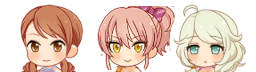
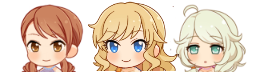
Update EP124

Changed region(s): [[0.3438, 0.0, 0.7188, 1.0]]

diff --git a/detail/124/index.html b/detail/124/index.html
@@ -47,7 +47,7 @@
 					<img class="plate" src='../../12008305/image_sp/ui/refresh_room/name_plate/101.png'>
 				</div>
 				<div class="plate-area" rel="2">
-					<img class="plate" src='../../12008305/image_sp/ui/refresh_room/name_plate/167.png'>
+					<img class="plate" src='../../12008305/image_sp/ui/refresh_room/name_plate/146.png'>
 				</div>
 				<div class="plate-area" rel="3">
 					<img class="plate" src='../../12008305/image_sp/ui/refresh_room/name_plate/24.png'>
@@ -89,9 +89,9 @@
 				"idol_name_1": "北条加蓮",
 				"idol_kana_1": "ほうじょうかれん",
 				"name_plate_id_1": "101",
-				"idol_name_2": "城ケ崎美嘉",
-				"idol_kana_2": "じょうがさきみか",
-				"name_plate_id_2": "167",
+				"idol_name_2": "大槻唯",
+				"idol_kana_2": "おおつきゆい",
+				"name_plate_id_2": "146",
 				"idol_name_3": "遊佐こずえ",
 				"idol_kana_3": "ゆさこずえ",
 				"name_plate_id_3": "24",
@@ -134,10 +134,10 @@
 						"attribute": "3",
 						"body_type": "1",
 						"breast_size": "1",
-						"short_name": "미카",
+						"short_name": "유이",
 						"image_url_list": {
-							"expression_1058": "../../12008305/js/petit_cg/expression/1058.js",
-							"hair_10058": "../../12008305/js/petit_cg/hair/10058.js",
+							"expression_1009": "../../12008305/js/petit_cg/expression/1009.js",
+							"hair_10009": "../../12008305/js/petit_cg/hair/10009.js",
 							"costume_1_23424": "../../12008305/js/petit_cg/costume/1/23424.js"
 						},
 						"sub_type_list": {
@@ -567,7 +567,7 @@
 				"motion4": "",
 				"motion5": "",
 				"bg_image": "",
-				"message": "じゃあ, 候補その２だね♪\n他にもできるやつあるかなっ?",
+				"message": "그럼, 후보 제2번이네♪\n그 외에도 할 수 있는 거 있을까?",
 				"message_window_type": "",
 				"message_arrow_1": "",
 				"message_arrow_2": "1",
@@ -588,7 +588,7 @@
 				"motion4": "",
 				"motion5": "",
 				"bg_image": "",
-				"message": "そうだなぁ……\nちょっと宴会芸から離れて, \nスタイリング対決とかどう?",
+				"message": "글쎄……\n잠깐 예능대회에서 벗어나서, \n스타일링 대결 같은 건 어때?",
 				"message_window_type": "",
 				"message_arrow_1": "1",
 				"message_arrow_2": "",
@@ -609,7 +609,7 @@
 				"motion4": "",
 				"motion5": "",
 				"bg_image": "",
-				"message": "すたいりんぐ……?\nおきがえで……きょうそうー?",
+				"message": "스타일링……?\n옷 갈아입는 걸로……경쟁ー?",
 				"message_window_type": "",
 				"message_arrow_1": "",
 				"message_arrow_2": "",
@@ -630,7 +630,7 @@
 				"motion4": "",
 				"motion5": "",
 				"bg_image": "",
-				"message": "ええっとね.制限時間内にそれぞれ\n誰かにメイクとかヘアアレンジとか\nしてもらって, その出来を競うの!",
+				"message": "그러니까 말야. 제한시간 내에 각자\n누군가를 메이크업하거나 \n헤어 어레인지를 하거나 해서, 그 결과를 겨루는 거야!",
 				"message_window_type": "",
 				"message_arrow_1": "1",
 				"message_arrow_2": "",
@@ -651,7 +651,7 @@
 				"motion4": "",
 				"motion5": "",
 				"bg_image": "",
-				"message": "久美子さん, 彩華さん, 美紗希さん\nあたりにお願いしたら, \n盛り上がるんじゃないかな♪",
+				"message": "쿠미코 씨, 아야카 씨, 미사키 씨\n정도한테 부탁하면, \n꽤 재미있지 않을까♪",
 				"message_window_type": "",
 				"message_arrow_1": "1",
 				"message_arrow_2": "",
@@ -672,7 +672,7 @@
 				"motion4": "",
 				"motion5": "",
 				"bg_image": "",
-				"message": "おお, アイドルっぽい♪\nかれん, くみちーたちと\nよくネイルの話とかしてるもんね!",
+				"message": "오오, 아이돌다운데♪\n카렌, 쿠미코 일행이랑\n네일 얘기 같은 거 자주 하니까 말야!",
 				"message_window_type": "",
 				"message_arrow_1": "",
 				"message_arrow_2": "1",
@@ -693,7 +693,7 @@
 				"motion4": "",
 				"motion5": "",
 				"bg_image": "",
-				"message": "うん, よくショッピングも行くよ♪\nでも, この案だと私たちが何かする\nワケじゃないし, やっぱダメかな~.",
+				"message": "응, 쇼핑도 자주 가♪\n그래도, 이건 우리가 뭔가를\n하는 게 아니니까, 역시 안 되려나~.",
 				"message_window_type": "",
 				"message_arrow_1": "1",
 				"message_arrow_2": "",
@@ -714,7 +714,7 @@
 				"motion4": "",
 				"motion5": "",
 				"bg_image": "",
-				"message": "こずえたち……いがい……\nほかの……みんなも……\nだしもの……するー……?",
+				"message": "우리……말고……\n다른……사람도……\n뭔가……해ー……?",
 				"message_window_type": "",
 				"message_arrow_1": "",
 				"message_arrow_2": "",
@@ -735,7 +735,7 @@
 				"motion4": "",
 				"motion5": "",
 				"bg_image": "",
-				"message": "うん, やる子もいるみたい!\n何人からか話を聞いてるよ~♪",
+				"message": "응, 하는 애들도 있다나봐!\n몇 명이서 얘기하는 걸 들었었어~♪",
 				"message_window_type": "",
 				"message_arrow_1": "",
 				"message_arrow_2": "1",
@@ -756,7 +756,7 @@
 				"motion4": "",
 				"motion5": "",
 				"bg_image": "",
-				"message": "美嘉ねえと莉嘉ちー, \n颯っちとなぎなぎで\n姉妹対決ダンスバトルとか☆",
+				"message": "미카랑 리카, \n하야테랑 나기로\n자매대결 댄스배틀이라든가☆",
 				"message_window_type": "",
 				"message_arrow_1": "",
 				"message_arrow_2": "1",
@@ -777,7 +777,7 @@
 				"motion4": "",
 				"motion5": "",
 				"bg_image": "",
-				"message": "うわ, 楽しそう!　私が聞いたのは\n朋さんと茄子さんの『占い館』かな.\nどんな相談でも受け付けるって♪",
+				"message": "우와, 재밌겠다!　내가 들으 건\n토모 씨랑 카코 씨의『점집』이었어.\n어떤 상담이라도 들어준다나♪",
 				"message_window_type": "",
 				"message_arrow_1": "1",
 				"message_arrow_2": "",
@@ -798,7 +798,7 @@
 				"motion4": "",
 				"motion5": "",
 				"bg_image": "",
-				"message": "すごいっ, 本格的だね!\n私もなにか占ってもらおうかな~.\n次の抜き打ちテストはいつ?　とか♪",
+				"message": "멋지다, 본격적이네!\n나도 점이나 한 번 볼까~.\n다음 깜짝시험은 언제?　같은 거♪",
 				"message_window_type": "",
 				"message_arrow_1": "",
 				"message_arrow_2": "1",
@@ -819,7 +819,7 @@
 				"motion4": "",
 				"motion5": "",
 				"bg_image": "",
-				"message": "てすと……そういえば……\nやすはとようこ……てすと……\nしてみようって……ひそひそー.",
+				"message": "시험……그러고보니……\n야스하랑 요코……시험……\n보겠다며……소곤소곤ー.",
 				"message_window_type": "",
 				"message_arrow_1": "",
 				"message_arrow_2": "",
@@ -840,7 +840,7 @@
 				"motion4": "",
 				"motion5": "",
 				"bg_image": "",
-				"message": "ほうほう, それは匂いますな~.\n未央ちゃんの勘が, ふたりも\n何か企んでると言ってるぞ♪",
+				"message": "음~, 수상한걸~.\n유이의 감이, 그 둘도\n뭔가 꾸미고 있다고 말하고 있다구♪",
 				"message_window_type": "",
 				"message_arrow_1": "",
 				"message_arrow_2": "1",
@@ -861,7 +861,7 @@
 				"motion4": "",
 				"motion5": "",
 				"bg_image": "",
-				"message": "あと, 出し物じゃないけど……\n忍とあかりは一緒にアップルケーキを\n作って, 持って行くって.",
+				"message": "그리고, 공연은 아니지만……\n시노부랑 아카리는 같이 사과케이크를\n만들어서, 갖고온대.",
 				"message_window_type": "",
 				"message_arrow_1": "1",
 				"message_arrow_2": "",
@@ -882,7 +882,7 @@
 				"motion4": "",
 				"motion5": "",
 				"bg_image": "",
-				"message": "ふわぁ……けーきたのしみー…….\nでも……りんごはどっちのー……?",
+				"message": "후와아……케이크기대돼ー…….\n그런데……사과는 어디 걸로ー……?",
 				"message_window_type": "",
 				"message_arrow_1": "",
 				"message_arrow_2": "",
@@ -903,7 +903,7 @@
 				"motion4": "",
 				"motion5": "",
 				"bg_image": "",
-				"message": "その答えは見逃せないね!\n楽しみですなぁ~♪",
+				"message": "그 답은 놓칠 수 없겠는걸!\n기대된다~♪",
 				"message_window_type": "",
 				"message_arrow_1": "",
 				"message_arrow_2": "1",
@@ -924,7 +924,7 @@
 				"motion4": "",
 				"motion5": "",
 				"bg_image": "",
-				"message": "そういえばヘレンさんも, \n『世界レベルでエンターテインして\nあげる』って言ってたっけ.",
+				"message": "그러고보니 헬렌 씨도, \n『세계 레벨의 엔터테인먼트를\n보여주겠어』라고 했었지.",
 				"message_window_type": "",
 				"message_arrow_1": "",
 				"message_arrow_2": "1",
@@ -945,7 +945,7 @@
 				"motion4": "",
 				"motion5": "",
 				"bg_image": "",
-				"message": "それから, かんかんとうめきゃんは\n自作の歌を歌ってくれるって!",
+				"message": "그리고, 칸나랑 오토하는\n자작곡으로 노래한대!",
 				"message_window_type": "",
 				"message_arrow_1": "",
 				"message_arrow_2": "1",
@@ -966,7 +966,7 @@
 				"motion4": "",
 				"motion5": "",
 				"bg_image": "",
-				"message": "かんなと, おとは……\nおうた, じょうずー…….\nこずえ……ふたりのこと, すきー.",
+				"message": "칸나랑, 오토하……\n노래, 잘해ー…….\n코즈에……두 사람 다, 좋아해ー.",
 				"message_window_type": "",
 				"message_arrow_1": "",
 				"message_arrow_2": "",
@@ -987,7 +987,7 @@
 				"motion4": "",
 				"motion5": "",
 				"bg_image": "",
-				"message": "ふふっ, みんな色々考えてるんだね.\nじつは凛と奈緒とも, 三人で\nお花を配ろうかって話してたんだ.",
+				"message": "후훗, 모두 이것저것 생각하고 있구나.\n사실은 린이랑 나오랑도, 셋이서\n꽃을 나눠줄까 얘기하고 있었어.",
 				"message_window_type": "",
 				"message_arrow_1": "1",
 				"message_arrow_2": "",
@@ -1008,7 +1008,7 @@
 				"motion4": "",
 				"motion5": "",
 				"bg_image": "",
-				"message": "こずえもねー……ちかと……\nみりあと……みんなで……\nまーちんぐ……するよー.",
+				"message": "코즈에도 있지ー……치카랑……\n미리아랑……다같이……\n마칭……할 거야ー.",
 				"message_window_type": "",
 				"message_arrow_1": "",
 				"message_arrow_2": "",
@@ -1029,7 +1029,7 @@
 				"motion4": "",
 				"motion5": "",
 				"bg_image": "",
-				"message": "そうなんだ~!\nどちらも良いアイディアだ♪",
+				"message": "그렇구나~!\n둘 다 좋은 아이디어네♪",
 				"message_window_type": "",
 				"message_arrow_1": "",
 				"message_arrow_2": "1",
@@ -1050,7 +1050,7 @@
 				"motion4": "",
 				"motion5": "",
 				"bg_image": "",
-				"message": "そう言う未央こそ, \n何か計画してそうだけど?",
+				"message": "그렇게 말하는 유이도, \n뭔가 계획이 있을 거 같은데?",
 				"message_window_type": "",
 				"message_arrow_1": "1",
 				"message_arrow_2": "",
@@ -1071,7 +1071,7 @@
 				"motion4": "",
 				"motion5": "",
 				"bg_image": "",
-				"message": "えへへ, じつはあーちゃんたちとも\n話してたんだ~.あかねちんは\nカレーの早食い対決がしたいって♪",
+				"message": "에헤헤, 사실은 치낫땅이랑\n얘기해봤었어~. 치낫땅은\n외국어 회화 교실이 어떨까 하던데~♪",
 				"message_window_type": "",
 				"message_arrow_1": "",
 				"message_arrow_2": "1",
@@ -1092,7 +1092,7 @@
 				"motion4": "",
 				"motion5": "",
 				"bg_image": "",
-				"message": "わあ, 茜ちゃん強そう……!\nなんだか賑やかになりそうだね.",
+				"message": "와아, 치나츠 멋져……!\n왠지 떠들썩해질 거 같은걸.",
 				"message_window_type": "",
 				"message_arrow_1": "1",
 				"message_arrow_2": "",
@@ -1113,7 +1113,7 @@
 				"motion4": "",
 				"motion5": "",
 				"bg_image": "",
-				"message": "あにばーさりー……みんな……\nたのしみー……うれしいねー…….",
+				"message": "애니버서리……모두……\n기대돼ー……기뻐ー…….",
 				"message_window_type": "",
 				"message_arrow_1": "",
 				"message_arrow_2": "",
@@ -1134,7 +1134,7 @@
 				"motion4": "",
 				"motion5": "",
 				"bg_image": "",
-				"message": "ねっ♪\n仲間を大切に想ってるのが\nひしひし伝わってくるよ!",
+				"message": "그치♪\n동료를 여기는 마음이\n절실하게 전해져!",
 				"message_window_type": "",
 				"message_arrow_1": "",
 				"message_arrow_2": "1",
@@ -1155,7 +1155,7 @@
 				"motion4": "",
 				"motion5": "",
 				"bg_image": "",
-				"message": "んー……やっぱりさ, 私たちだけ\nじゃなくて, もっと大勢でできる\nこと考えたいな!　どうかなっ?",
+				"message": "음ー……역시 말야, 우리뿐만이 아니라\n더 많은 사람이 할 수 있는 걸\n생각해보고 싶은데!　어때?",
 				"message_window_type": "",
 				"message_arrow_1": "",
 				"message_arrow_2": "1",
@@ -1176,7 +1176,7 @@
 				"motion4": "",
 				"motion5": "",
 				"bg_image": "",
-				"message": "うん, ほかの人も誘いたいね♪\n川島さんやマキノさんはどう?\nいつもいいアドバイスくれるし.",
+				"message": "응, 다른 사람들도 꼬셔보고 싶네♪\n카와시마 씨나 마키노 씨는 어때?\n언제나 좋은 조언을 해주기도 하고.",
 				"message_window_type": "",
 				"message_arrow_1": "1",
 				"message_arrow_2": "",
@@ -1197,7 +1197,7 @@
 				"motion4": "",
 				"motion5": "",
 				"bg_image": "",
-				"message": "こずえも……あや……さそいたいー.",
+				"message": "코즈에도……아야……부르고 싶어ー.",
 				"message_window_type": "",
 				"message_arrow_1": "",
 				"message_arrow_2": "",
@@ -1218,7 +1218,7 @@
 				"motion4": "",
 				"motion5": "",
 				"bg_image": "",
-				"message": "うんうん♪\n誘いたい人, いっぱいいるよねっ.\n今からちょっと声かけてみよっか!",
+				"message": "응응♪\n부르고 싶은 사람, 많이 있구나.\n지금 바로 얘기하러 가볼까!",
 				"message_window_type": "",
 				"message_arrow_1": "",
 				"message_arrow_2": "1",
@@ -1239,7 +1239,7 @@
 				"motion4": "",
 				"motion5": "",
 				"bg_image": "",
-				"message": "みんな, 思ってることは一緒だしね.\nいつもお世話になっている, あの人に\nとびきりのお祝いを贈りたい…って♪",
+				"message": "모두, 생각하는 건 같으니까 말야.\n항상 신세지고 있는, 그 사람에게\n최고의 축하를 선사해주고 싶다…그런♪",
 				"message_window_type": "",
 				"message_arrow_1": "1",
 				"message_arrow_2": "",
@@ -1260,7 +1260,7 @@
 				"motion4": "",
 				"motion5": "",
 				"bg_image": "",
-				"message": "みんなで……がんばれば……\nきっと……できるー…….",
+				"message": "함께……노력하면……\n분명……할 수 있어ー…….",
 				"message_window_type": "",
 				"message_arrow_1": "",
 				"message_arrow_2": "",
@@ -1281,7 +1281,7 @@
 				"motion4": "",
 				"motion5": "",
 				"bg_image": "",
-				"message": "未央ちゃん的テーマは, \nみんなで作るアニバーサリー!\nえへへ, みんなで楽しんじゃおっ♪",
+				"message": "유이가 생각하는 테마는, \n다함께 만드는 애니버서리!\n에헤헤, 모두 함께 즐기자♪",
 				"message_window_type": "",
 				"message_arrow_1": "",
 				"message_arrow_2": "1",

diff --git a/12008305/js/refresh_link_list.js b/12008305/js/refresh_link_list.js
@@ -230,7 +230,7 @@ refApp.controller('refCtrl', ['$scope', '$filter', function($scope, $filter) {
 	}, {
 		id: 124,
 		name: ["다같이 만드는", "특별한 날☆"],
-		idol: "北条加蓮_城ケ崎美嘉_遊佐こずえ_호죠카렌_죠가사키미카_유사코즈에"		
+		idol: "北条加蓮_大槻唯_遊佐こずえ_호죠카렌_오오츠키유이_유사코즈에"		
 	}];
 	$scope.q = '';
 
